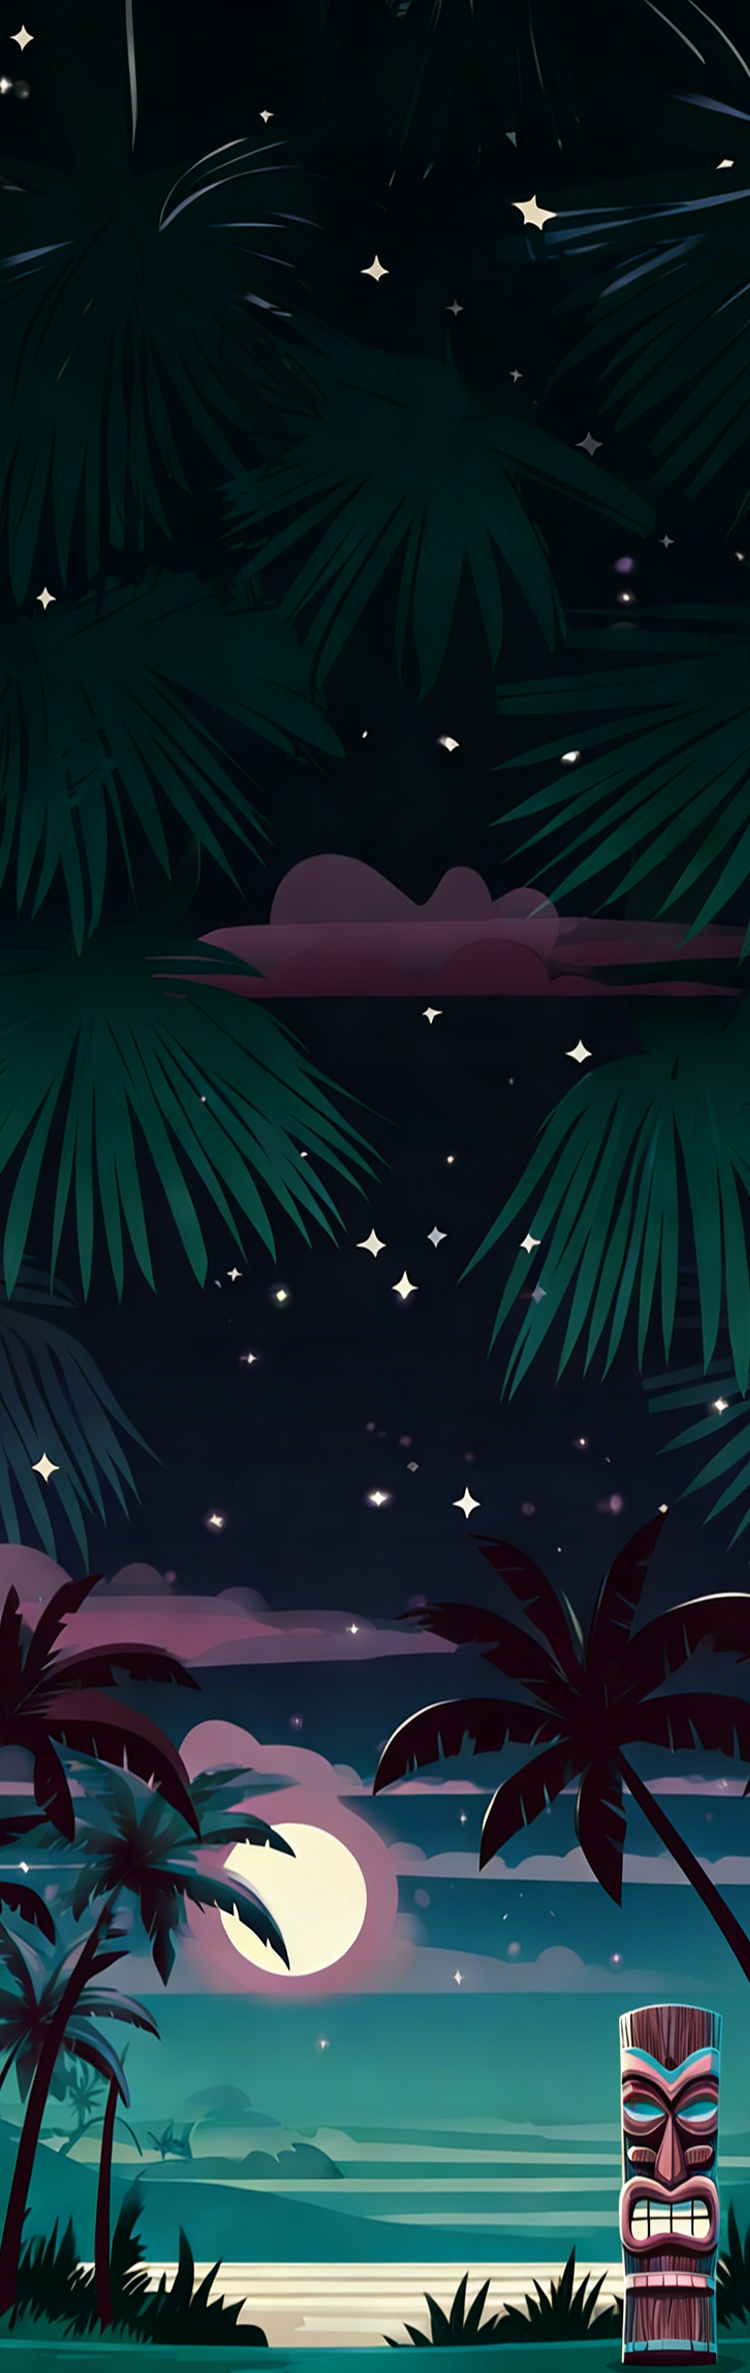
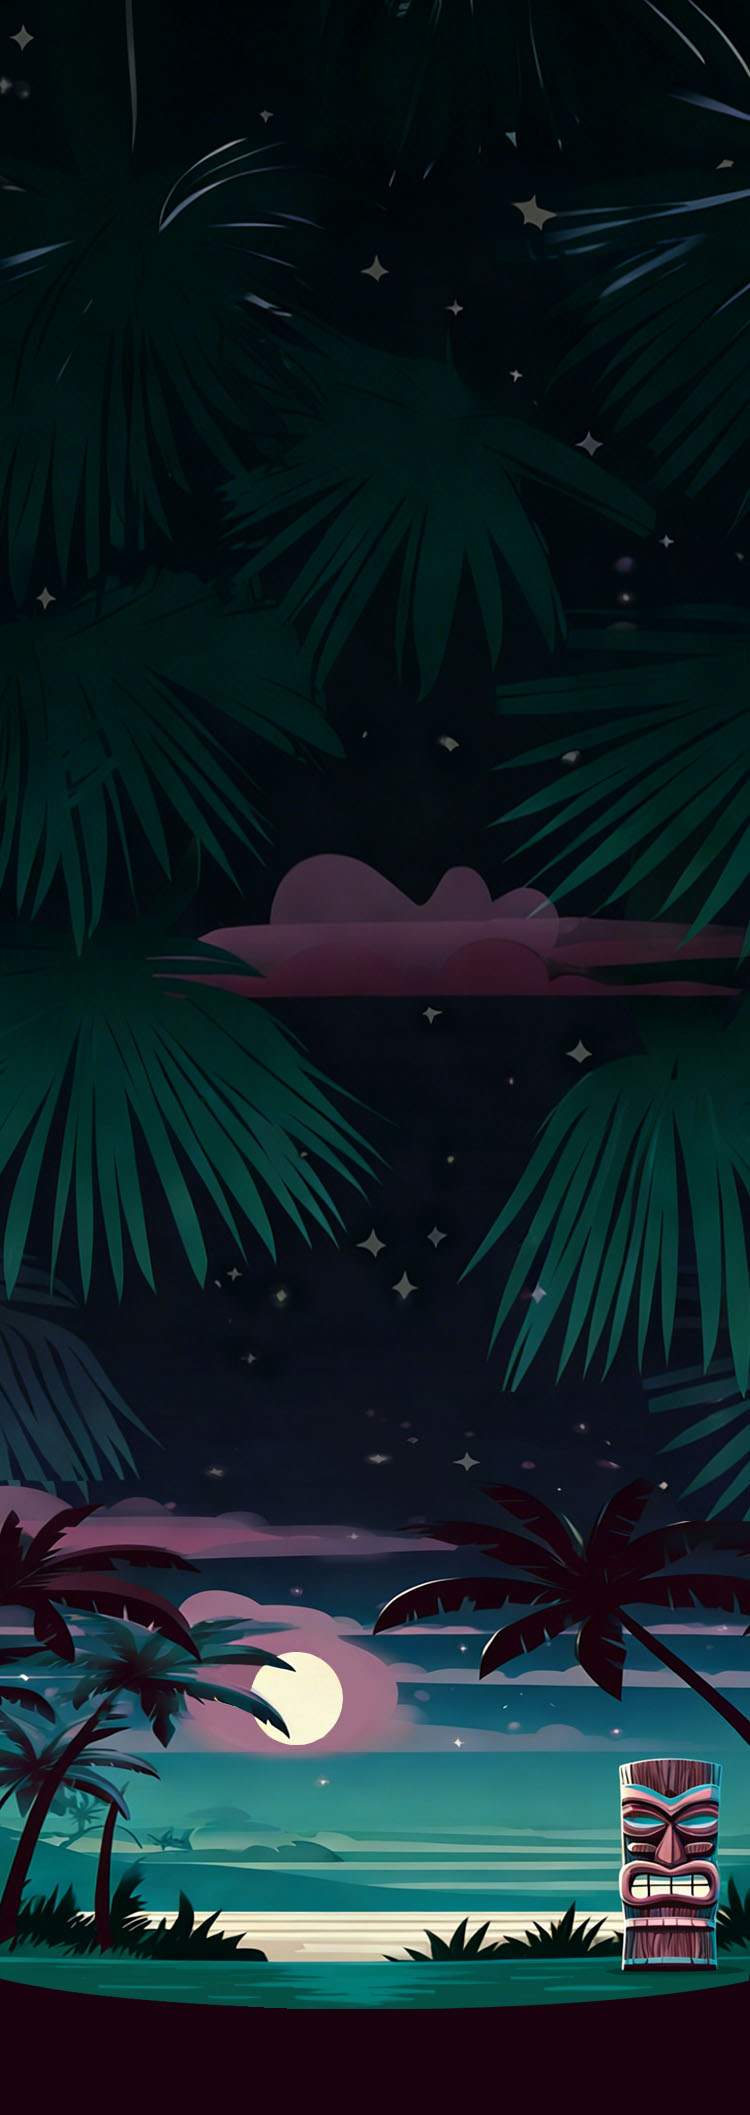
feat: update tiki nighttime theme with new background and styling
- Replace background image with new tiki nighttime scene
- Add palm leaves overlay at top of page using CSS multiple backgrounds
- Simplify footer to use white links with LocalBar and GitHub icons
- Use LocalBar icon consistently in SearchHeader for home navigation

diff --git a/apps/web/components/AppFooter/index.tsx b/apps/web/components/AppFooter/index.tsx
@@ -2,18 +2,7 @@
 
 import GitHubIcon from '@mui/icons-material/GitHub';
 import LocalBarIcon from '@mui/icons-material/LocalBar';
-import { Button, Stack } from '@mui/material';
-
-const buttonSx = {
-  color: '#FFFFFF',
-  fontWeight: 700,
-  backgroundColor: 'rgba(10, 20, 32, 0.7)',
-  backdropFilter: 'blur(4px)',
-  '&:hover': {
-    color: '#FFD580',
-    backgroundColor: 'rgba(10, 20, 32, 0.85)',
-  },
-};
+import { Link, Stack } from '@mui/material';
 
 export default function AppFooter() {
   return (
@@ -27,18 +16,22 @@ export default function AppFooter() {
         alignItems: 'flex-end',
       }}
     >
-      <Button href="/" startIcon={<LocalBarIcon />} sx={buttonSx}>
-        Cocktail Index
-      </Button>
-      <Button
+      <Link
+        href="/"
+        underline="none"
+        sx={{ color: '#FFFFFF', display: 'flex', alignItems: 'center', gap: 0.5 }}
+      >
+        <LocalBarIcon /> Cocktail Index
+      </Link>
+      <Link
         href="https://github.com/SBoudrias/cocktails/"
         target="_blank"
         rel="noopener"
-        startIcon={<GitHubIcon />}
-        sx={buttonSx}
+        underline="none"
+        sx={{ color: '#FFFFFF', display: 'flex', alignItems: 'center', gap: 0.5 }}
       >
-        Contribute on GitHub
-      </Button>
+        <GitHubIcon /> Contribute on GitHub
+      </Link>
     </Stack>
   );
 }

diff --git a/apps/web/app/layout.tsx b/apps/web/app/layout.tsx
@@ -10,7 +10,8 @@ import 'core-js/modules/es.object.group-by.js';
 import { NuqsAdapter } from 'nuqs/adapters/next/app';
 import AppFooter from '#/components/AppFooter';
 import FullscreenHelper from '#/components/FullscreenHelper';
-import tikiBeachDivider from '../../public/tiki-beach-divider.png';
+import tikiBeachDivider from '../../../public/tiki-beach-divider.png';
+import tikiLeavesTop from '../../../public/tiki-leaves-top.png';
 import theme from './theme';
 
 const roboto = Roboto({
@@ -62,10 +63,10 @@ export default function RootLayout({
                   minHeight: '100vh',
                   display: 'flex',
                   flexDirection: 'column',
-                  backgroundImage: `url(${tikiBeachDivider.src})`,
-                  backgroundSize: `min(100%, ${tikiBeachDivider.width}px) auto`,
-                  backgroundPosition: 'bottom center',
-                  backgroundRepeat: 'no-repeat',
+                  backgroundImage: `url(${tikiLeavesTop.src}), url(${tikiBeachDivider.src})`,
+                  backgroundSize: `min(100%, ${tikiLeavesTop.width}px) auto, min(100%, ${tikiBeachDivider.width}px) auto`,
+                  backgroundPosition: 'center 40px, bottom center',
+                  backgroundRepeat: 'no-repeat, no-repeat',
                 }}
               >
                 <Box sx={{ flexGrow: 1 }}>{children}</Box>

diff --git a/apps/web/components/SearchHeader/index.tsx b/apps/web/components/SearchHeader/index.tsx
@@ -1,6 +1,6 @@
 'use client';
 
-import { Home } from '@mui/icons-material';
+import { LocalBar } from '@mui/icons-material';
 import { AppBar, Icon, IconButton, Toolbar, Typography } from '@mui/material';
 import { usePathname } from 'next/navigation';
 import SearchInput from '#/components/SearchInput';
@@ -27,7 +27,7 @@ export default function SearchHeader({
             </IconButton>
           ) : (
             <IconButton size="large" edge="start" aria-label="Go to home" href="/">
-              <Home />
+              <LocalBar />
             </IconButton>
           )}
 
